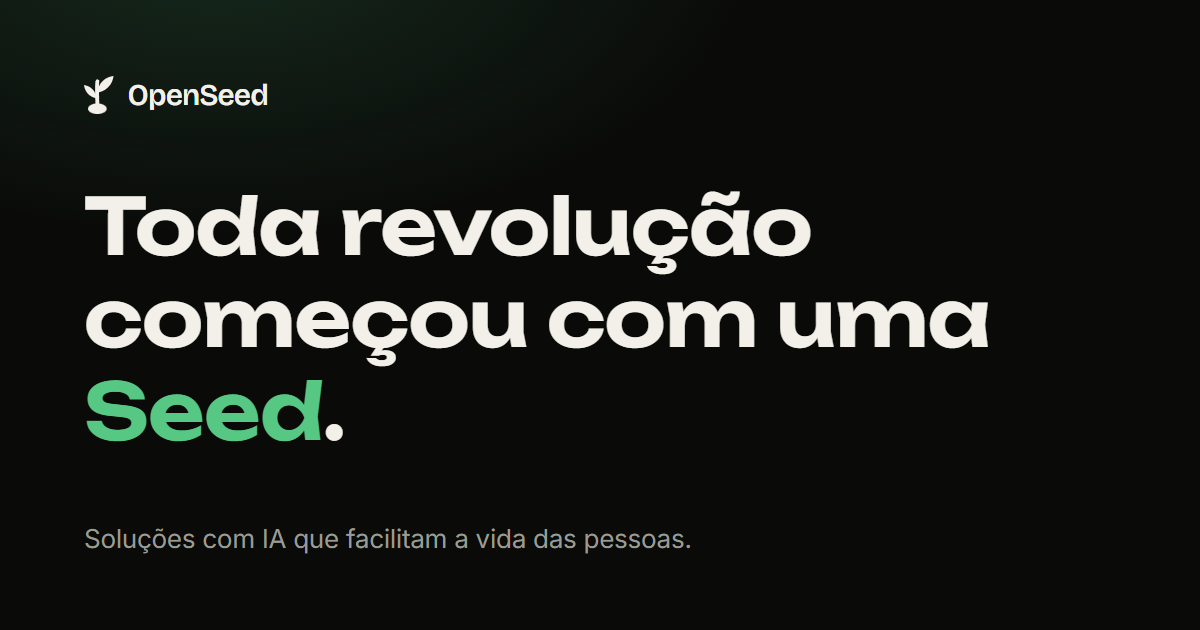
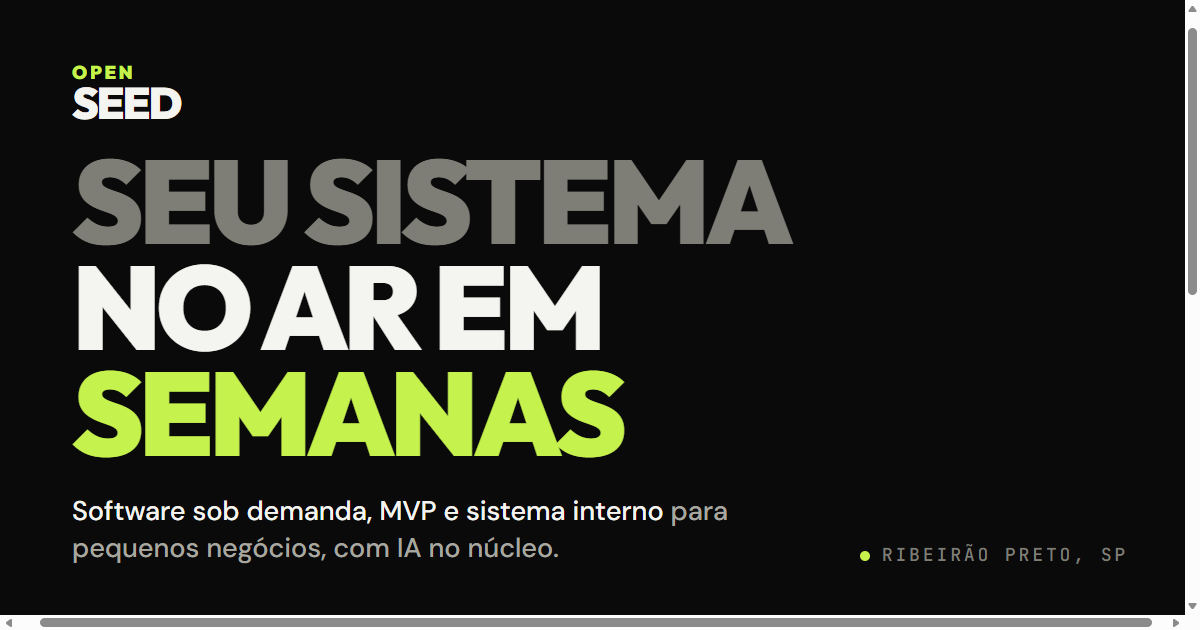
feat: imagem de compartilhamento e icones com a marca nova
A og-image ainda era da marca antiga: broto verde, Unbounded e a frase
sobre revolucao. Agora e o lockup OPEN SEED em preto e lima, com a
manchete da landing e a cidade, em portugues e ingles.

Icone de aplicativo em 512 e apple-touch-icon em 180, gerados do mesmo
template. O favicon continua em SVG, que escala sozinho.

Os dois templates ganharam box-sizing: sem ele o padding somava ao
tamanho e a imagem saia 1344 por 758 em vez de 1200 por 630.

diff --git a/tools/icons.html b/tools/icons.html
@@ -8,6 +8,7 @@
      indicado no data-arquivo. A fonte precisa carregar antes: espere 2 s. -->
 <link href="https://fonts.googleapis.com/css2?family=Outfit:wght@900&display=swap" rel="stylesheet">
 <style>
+  * { box-sizing: border-box; }
   body { margin: 0; background: #666; display: flex; flex-wrap: wrap; gap: 24px; padding: 24px; font-family: "Outfit", sans-serif; }
   .tile { background: #0a0a0a; color: #f4f4f0; display: flex; flex-direction: column; justify-content: center; align-items: flex-start; overflow: hidden; }
   .wm { font-weight: 900; text-transform: uppercase; letter-spacing: -.05em; line-height: .82; }

diff --git a/tools/og-image.html b/tools/og-image.html
@@ -9,7 +9,8 @@
      em docs/assets/img/og-image-en.png. Espere 2 s para a fonte carregar. -->
 <link href="https://fonts.googleapis.com/css2?family=DM+Sans:wght@500&family=JetBrains+Mono:wght@500&family=Outfit:wght@900&display=swap" rel="stylesheet">
 <style>
-  body { margin: 0; background: #666; display: grid; gap: 24px; padding: 24px; }
+  * { box-sizing: border-box; }
+  body { margin: 0; background: #666; display: grid; gap: 24px; padding: 24px; justify-items: start; }
   .og {
     width: 1200px; height: 630px; overflow: hidden; position: relative;
     background: #0a0a0a; color: #f4f4f0;
